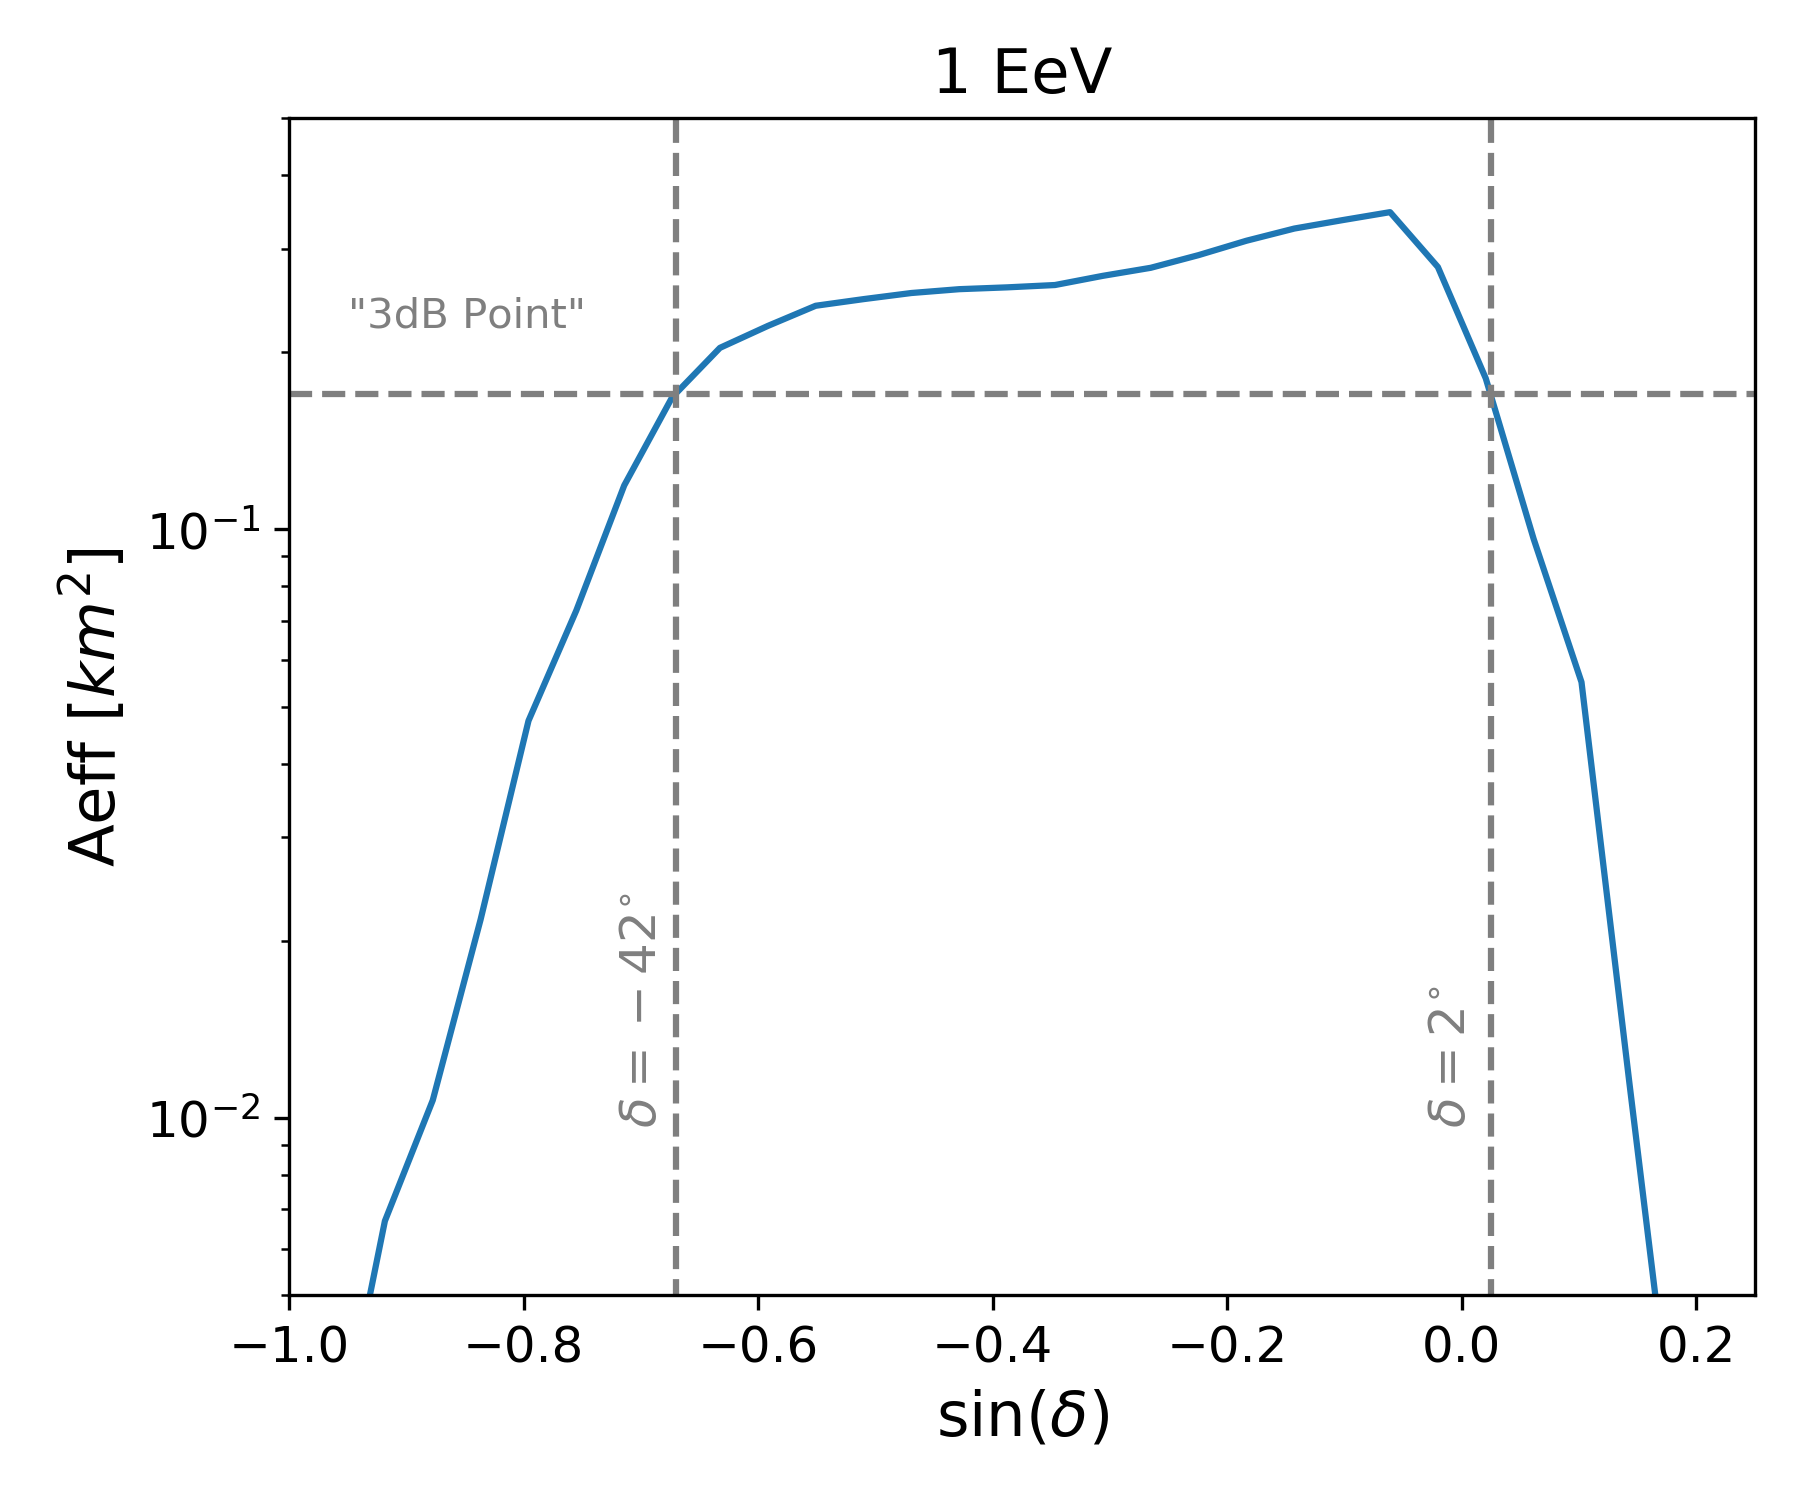
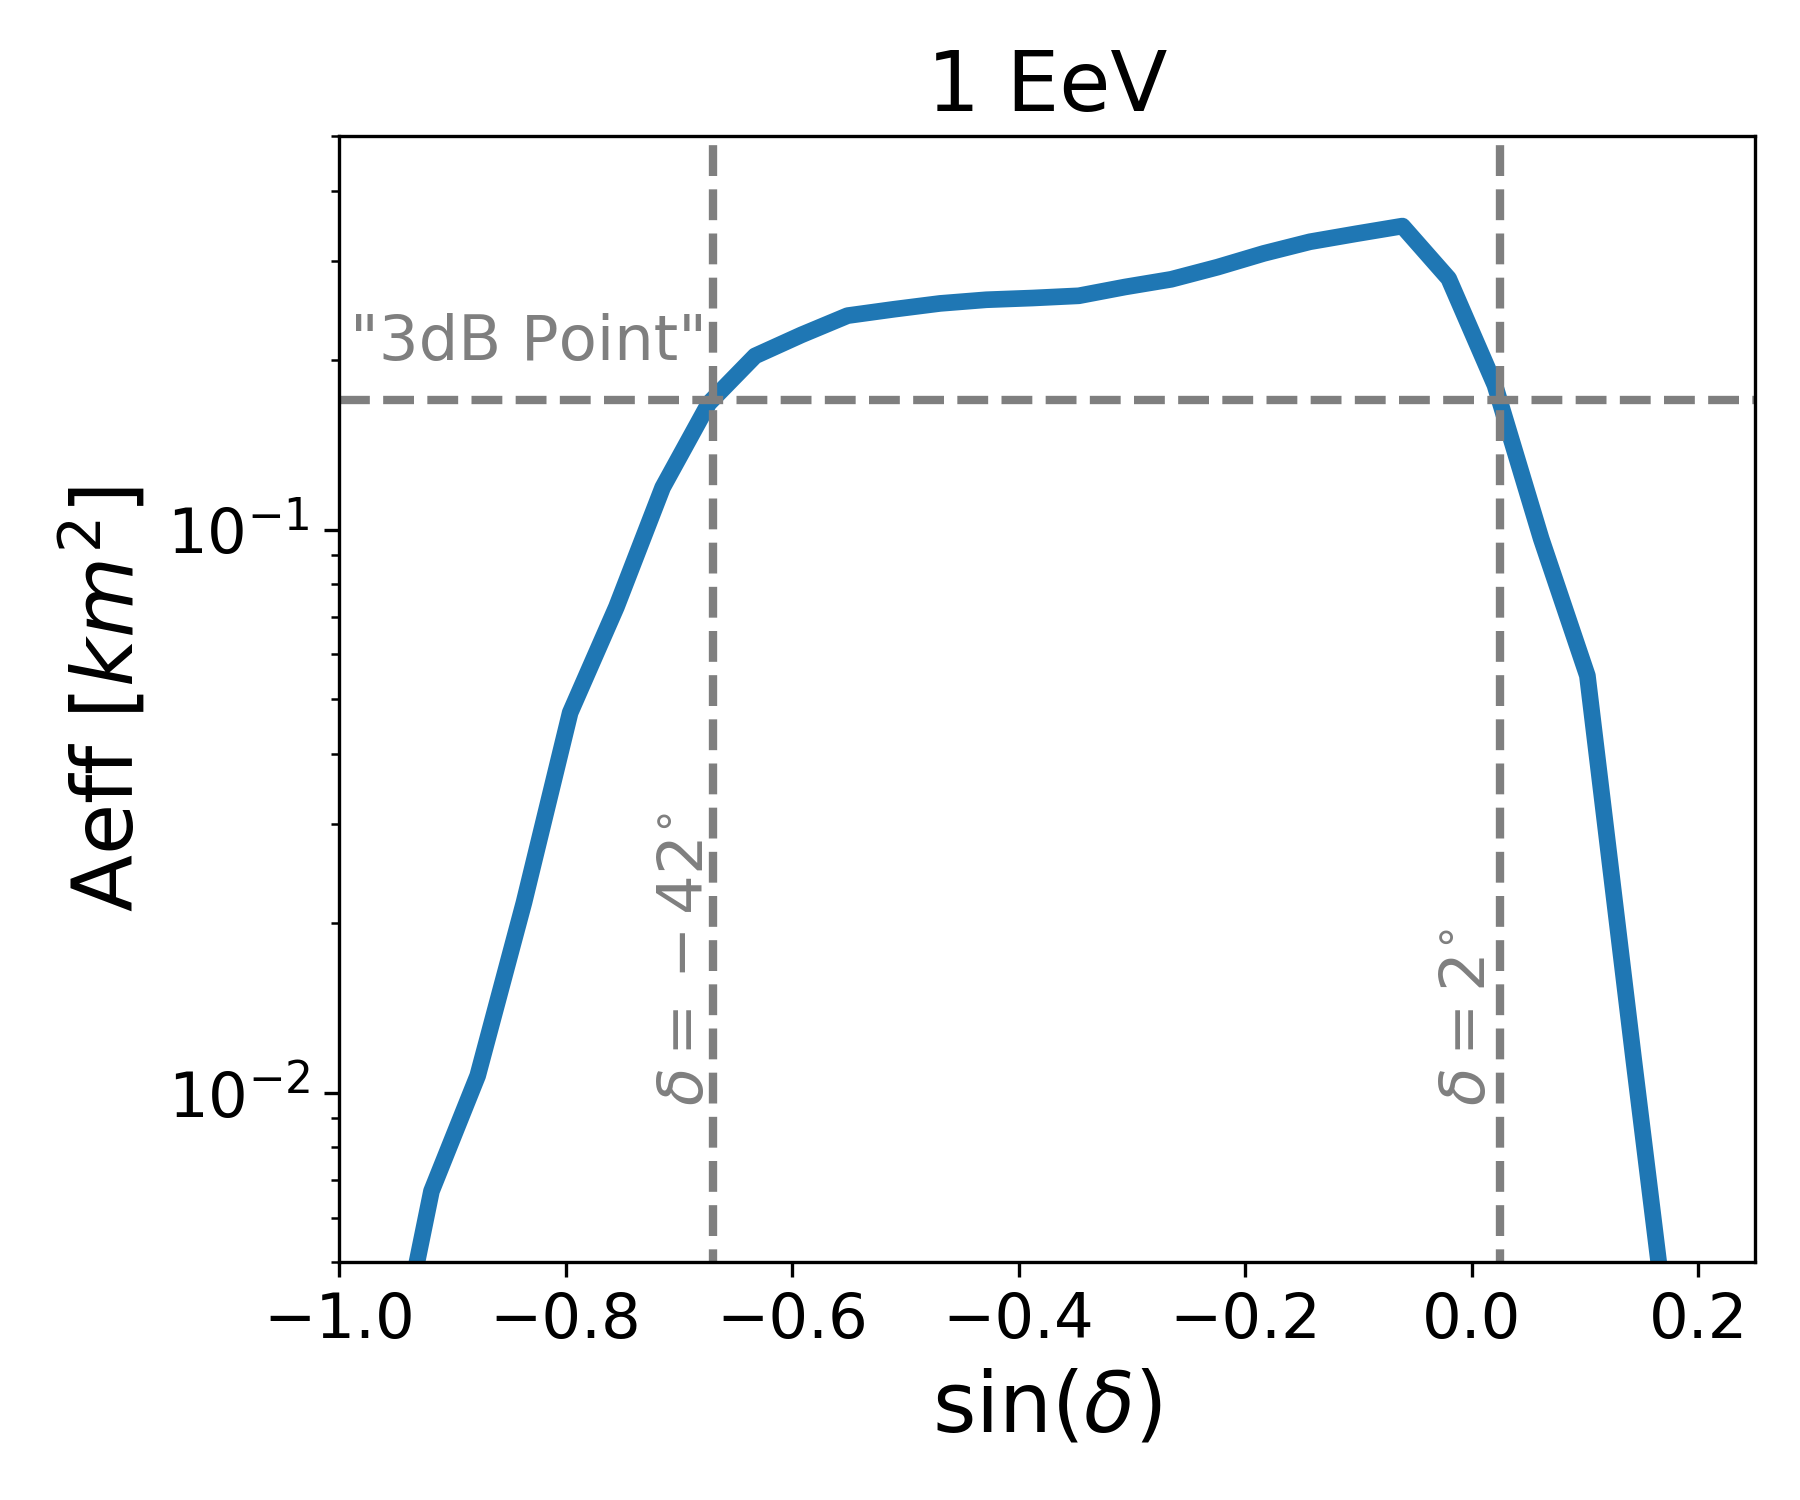
make lines thicker and words bigger

diff --git a/analysis/2021.02_review/sky_coverage/plot_sky_coverage.py b/analysis/2021.02_review/sky_coverage/plot_sky_coverage.py
@@ -4,7 +4,7 @@ import scipy as scipy
 from scipy import interpolate
 
 
-n_deep = 144*0
+n_deep = 144*1
 n_shallow = (169+144)*1
 
 deep_det = 'pa_200m_2.00km'
@@ -13,7 +13,7 @@ filename=f'tabulated_aeff_vs_coszen_review_hybrid.csv'
 
 data = np.genfromtxt(filename, delimiter=',', skip_header=6, names=['czmin', 'daeff', 'saeff', 'frac'])
 
-plot_aeff_vs_zen = False
+plot_aeff_vs_zen = True
 if plot_aeff_vs_zen:
 
 	zen_for_interp = data['czmin']
@@ -43,30 +43,33 @@ if plot_aeff_vs_zen:
 	# ax.plot(data['czmin'], data['daeff']*n_deep, label='deep')
 	# ax.plot(data['czmin'], data['saeff']*n_shallow, label='shallow')
 	# ax.plot(-(data['czmin']+0.05), to_plot)
-	ax.plot(-to_plot_x, to_plot_y)
+	ax.plot(-to_plot_x, to_plot_y, linewidth=4)
 	# 3dB point
-	ax.plot([-1,1],[0.17,0.17], 'C7--')
-	ax.annotate(r'"3dB Point"', xy=(-.95,0.22), xycoords='data', rotation=0, color='C7')
+	ax.plot([-1,1],[0.17,0.17], 'C7--', linewidth=2)
+	ax.annotate(r'"3dB Point"', xy=(-.99,0.20), xycoords='data', 
+		rotation=0, color='C7', fontsize=15)
 
-	ax.plot([-0.67,-0.67],[1e-7,1], 'C7--')
-	ax.annotate(r'$\delta=-42^{\circ}$', xy=(-0.72,1e-2), xycoords='data', rotation=90, color='C7', size=12)
+	ax.plot([-0.67,-0.67],[1e-7,1], 'C7--', linewidth=2)
+	ax.annotate(r'$\delta=-42^{\circ}$', xy=(-0.72,1e-2), xycoords='data', 
+		rotation=90, color='C7', size=15)
 
-	ax.plot([0.025,0.025],[1e-7,1], 'C7--')
-	ax.annotate(r'$\delta=2^{\circ}$', xy=(-0.03,1e-2), xycoords='data', rotation=90, color='C7', size=12)
+	ax.plot([0.025,0.025],[1e-7,1], 'C7--', linewidth=2)
+	ax.annotate(r'$\delta=2^{\circ}$', xy=(-0.03,1e-2), xycoords='data', 
+		rotation=90, color='C7', size=15)
 	
 	# ax.set_xlabel(r'cos($\theta$)')
-	ax.set_xlabel(r'sin($\delta$)',size=15)
-	ax.set_ylabel(r'Aeff [$km^2$]',size=15)
+	ax.set_xlabel(r'sin($\delta$)',size=20)
+	ax.set_ylabel(r'Aeff [$km^2$]',size=20)
 	ax.set_yscale('log')
 	plt.tight_layout()
 	ax.set_ylim([5e-3,0.5])
 	ax.set_xlim([-1,0.25])
-	ax.tick_params(labelsize=12)
-	ax.set_title('1 EeV',fontsize=15)
+	ax.tick_params(labelsize=15)
+	ax.set_title('1 EeV',fontsize=20)
 	plt.tight_layout()
 	fig.savefig('aeff_vs_coszen.png',dpi=300)
 
-doHealpyPlot = True
+doHealpyPlot = False
 if doHealpyPlot:
 
 	# pad a bit to get digitization to work right
